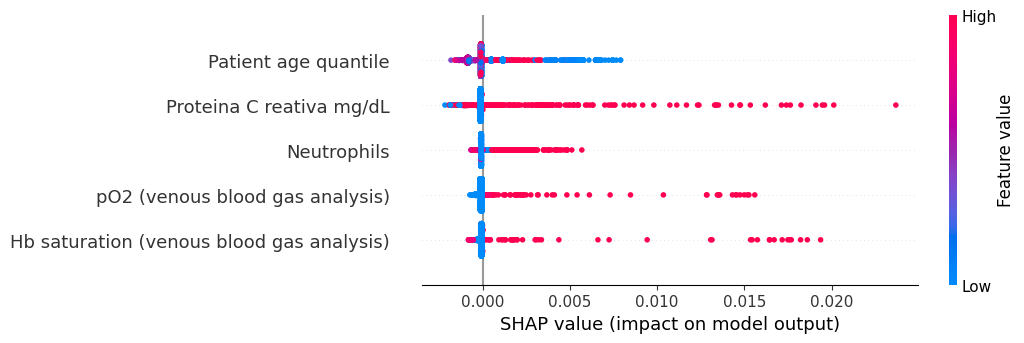
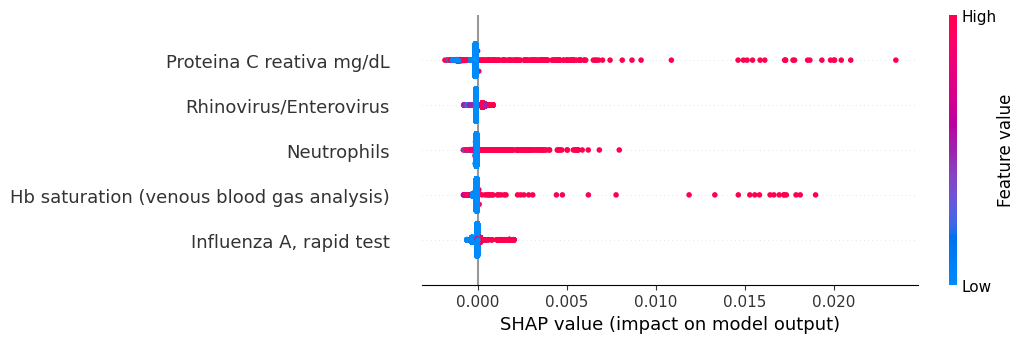
cabou?

diff --git a/man_data.py b/man_data.py
@@ -10,16 +10,12 @@
 #                                                       #
 #########################################################   
 
-import shap
 import pandas as pd
 import numpy as np
-import matplotlib.pyplot as plt
-import scikitplot as skplt
-from sklearn.tree import plot_tree, DecisionTreeClassifier
 from sklearn.ensemble import RandomForestClassifier
 from sklearn.model_selection import KFold
-from sklearn.metrics import *
-from category_encoders import *
+from sklearn.metrics import accuracy_score
+from category_encoders import OrdinalEncoder
 
 
 
@@ -75,11 +71,12 @@ class Manipulador_de_Dados():
     #########################################################
     def filter_data1(self):
         self.data['SARS-Cov-2 exam result'] = self.data['SARS-Cov-2 exam result'].map(dict(negative = 0, positive = 1))
-        self.exams = self.data.drop(['Patient ID', 
-                               'SARS-Cov-2 exam result',
-                               'Patient addmited to regular ward (1=yes, 0=no)', 
-                               'Patient addmited to semi-intensive unit (1=yes, 0=no)', 
-                               'Patient addmited to intensive care unit (1=yes, 0=no)'], axis = 1)
+        self.exams = self.data.drop(['Patient ID',
+                                     'Patient age quantile',
+                                     'SARS-Cov-2 exam result',
+                                     'Patient addmited to regular ward (1=yes, 0=no)', 
+                                     'Patient addmited to semi-intensive unit (1=yes, 0=no)', 
+                                     'Patient addmited to intensive care unit (1=yes, 0=no)'], axis = 1)
     
     #########################################################
     # Filtra dos dados sensíveis para a task 2, que trata   #

diff --git a/graphs.py b/graphs.py
@@ -55,7 +55,7 @@ def create_shap(data, task):
                           max_display=5)
         plt.savefig(script_dir + '/task2/shap_graph.png', bbox_inches='tight')
         plt.close()
-        create_dependence_plot(data, shap_values, task,'Patient age quantile')
+        # create_dependence_plot(data, shap_values, task,'Patient age quantile')
         create_dependence_plot(data, shap_values, task,'Proteina C reativa mg/dL')
         create_dependence_plot(data, shap_values, task,'Neutrophils')
 

diff --git a/README.md b/README.md
@@ -1,0 +1,30 @@
+# Trabalho 3 - Introdução à Inteligência Artificial #
+
+## Integrantes ##
+
+- André Carvalho Marques - 15/0005491
+- Ian Nery Bandeira - 17/0144739
+
+## Python Versão 3.7.2 ##
+
+## Executado em Windows 10 ##
+
+    BIBLIOTECAS NECESSÁRIAS PARA A EXECUÇÃO DO PROJETO
+        - numpy
+        - pandas
+        - matplotlib
+        - scikit-learn
+        - scikit-plot
+        - category-encoders
+        - shap
+        - xlrd
+        
+- Para instalar todas as bibliotecas, execute o pip install para cada uma das bibliotecas, ou utilize o comando
+
+        pip install -r ./requirements.txt
+
+- Para executar o algoritmo, basta executar o arquivo "./main.py" no terminal com
+
+        python ./main.py
+
+   É necessário utilizar o './', para que seja identificado o path do projeto.
